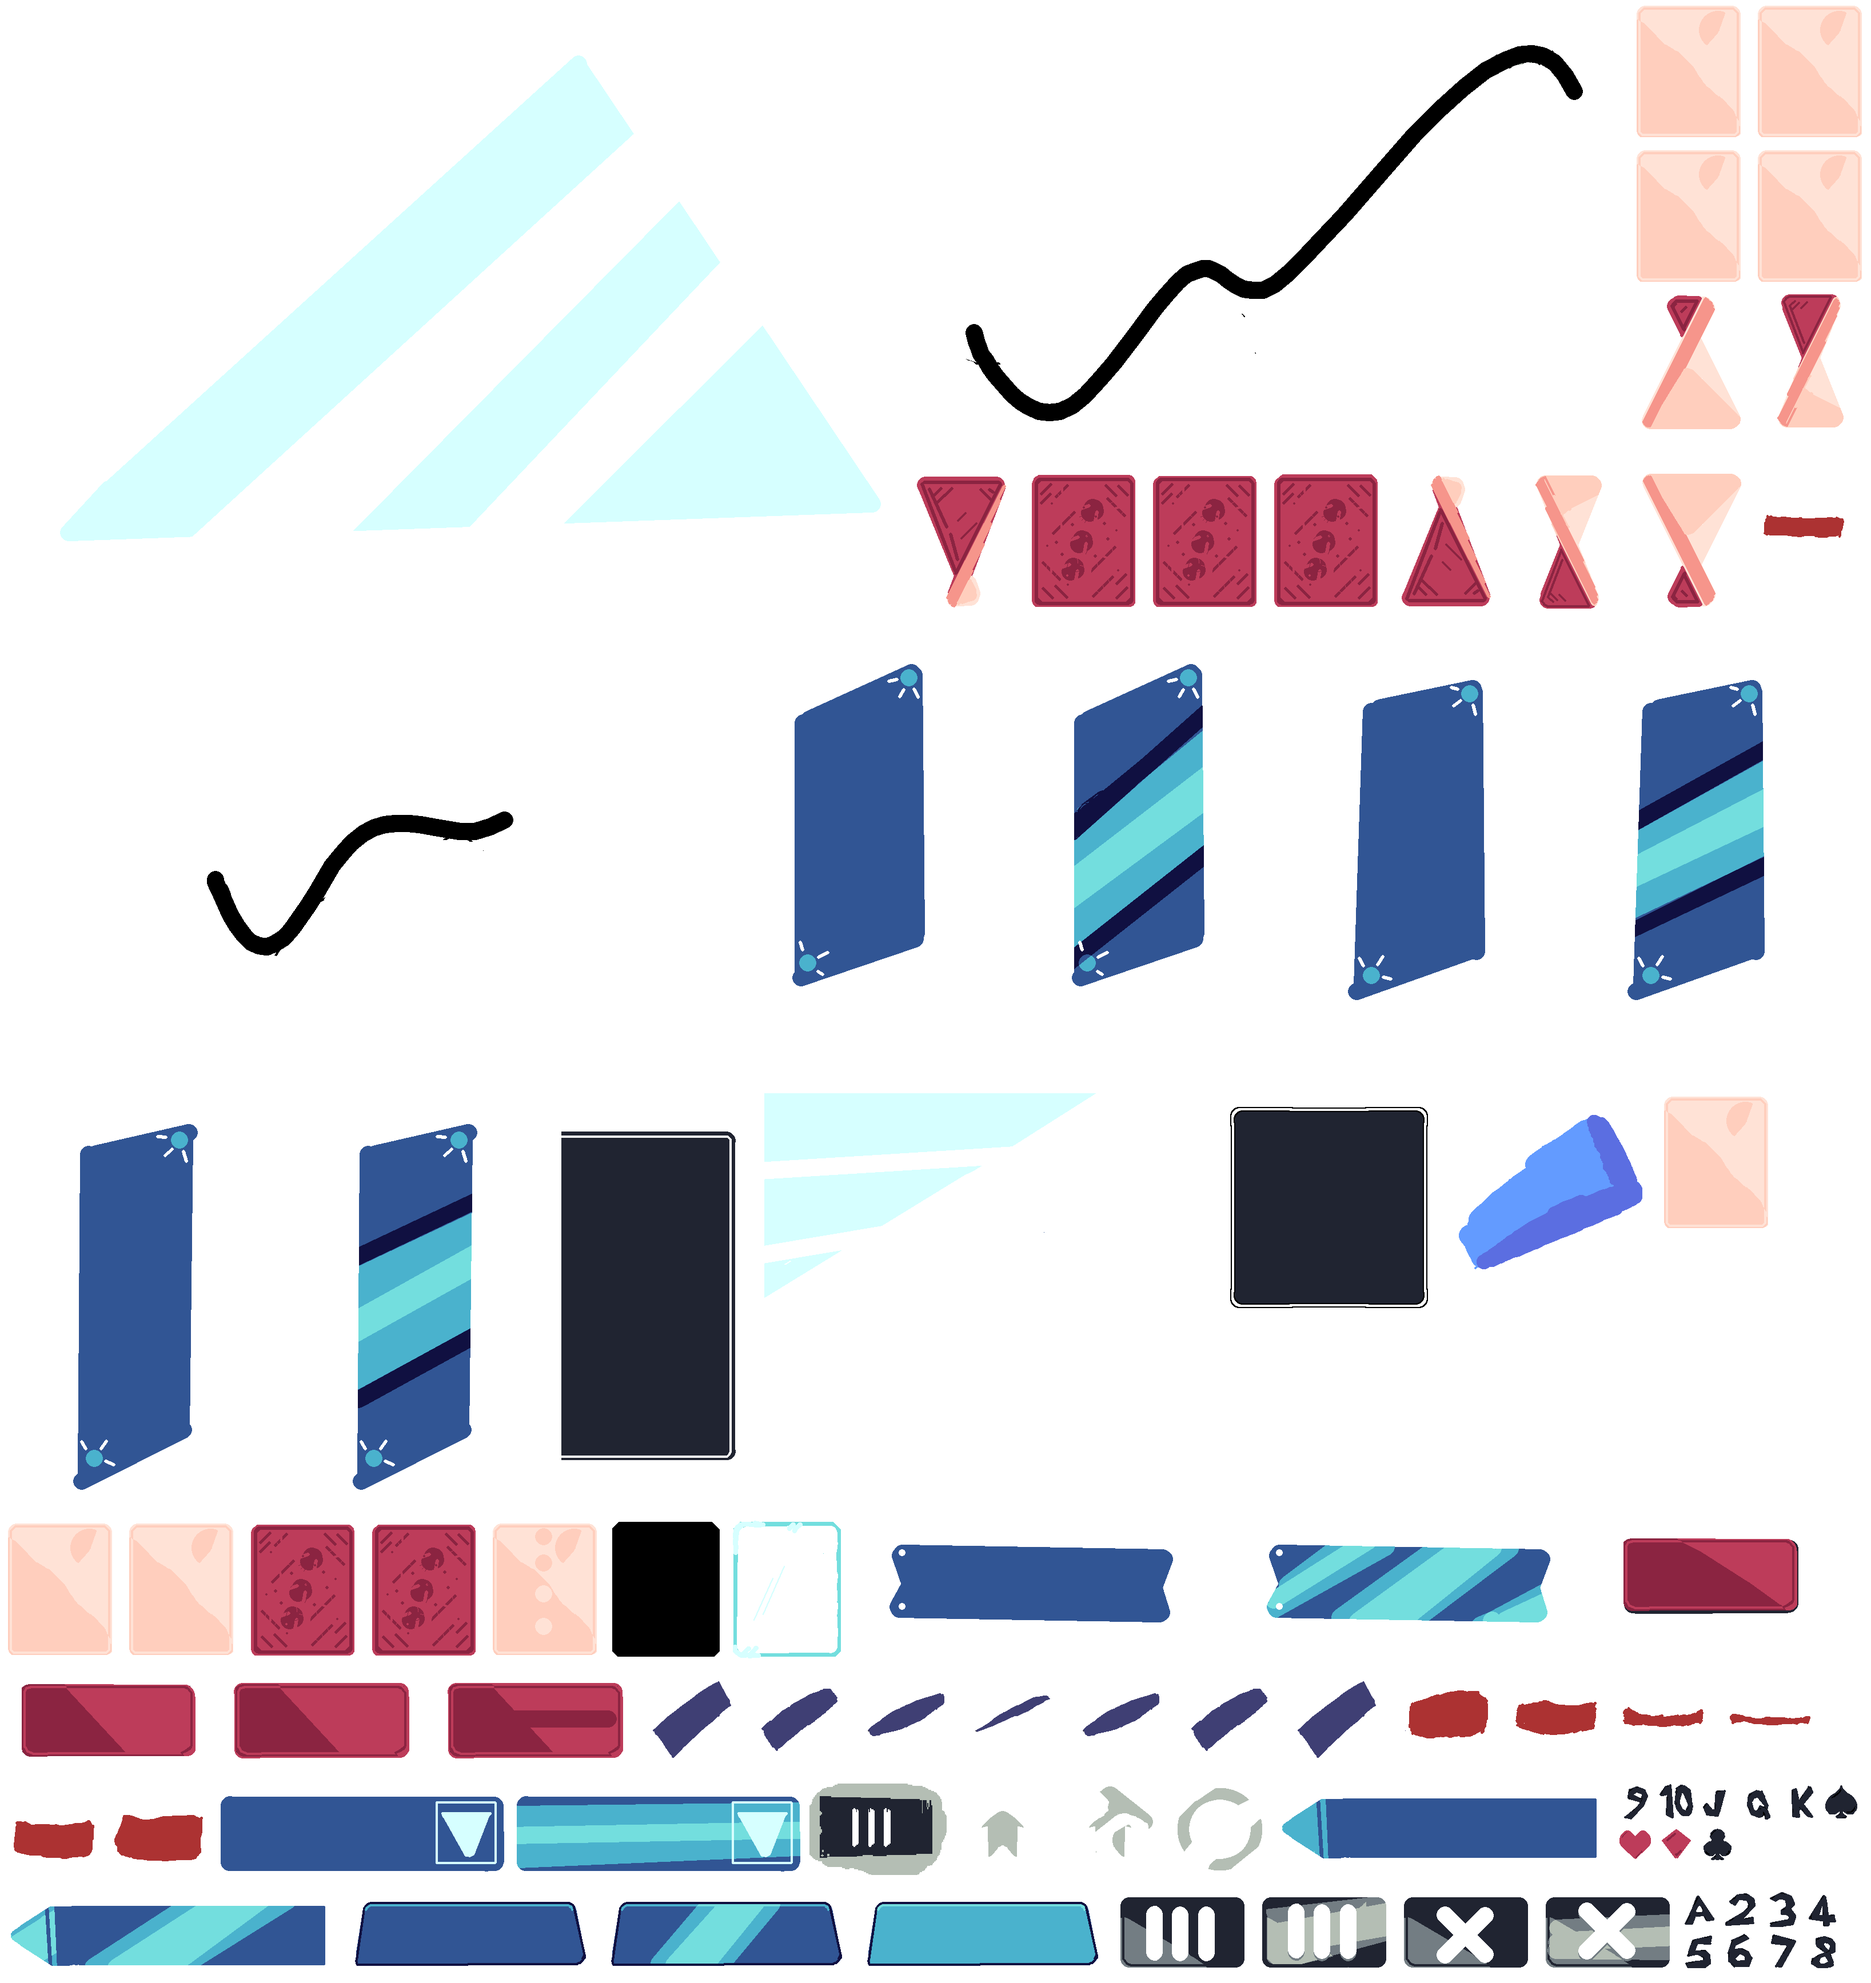
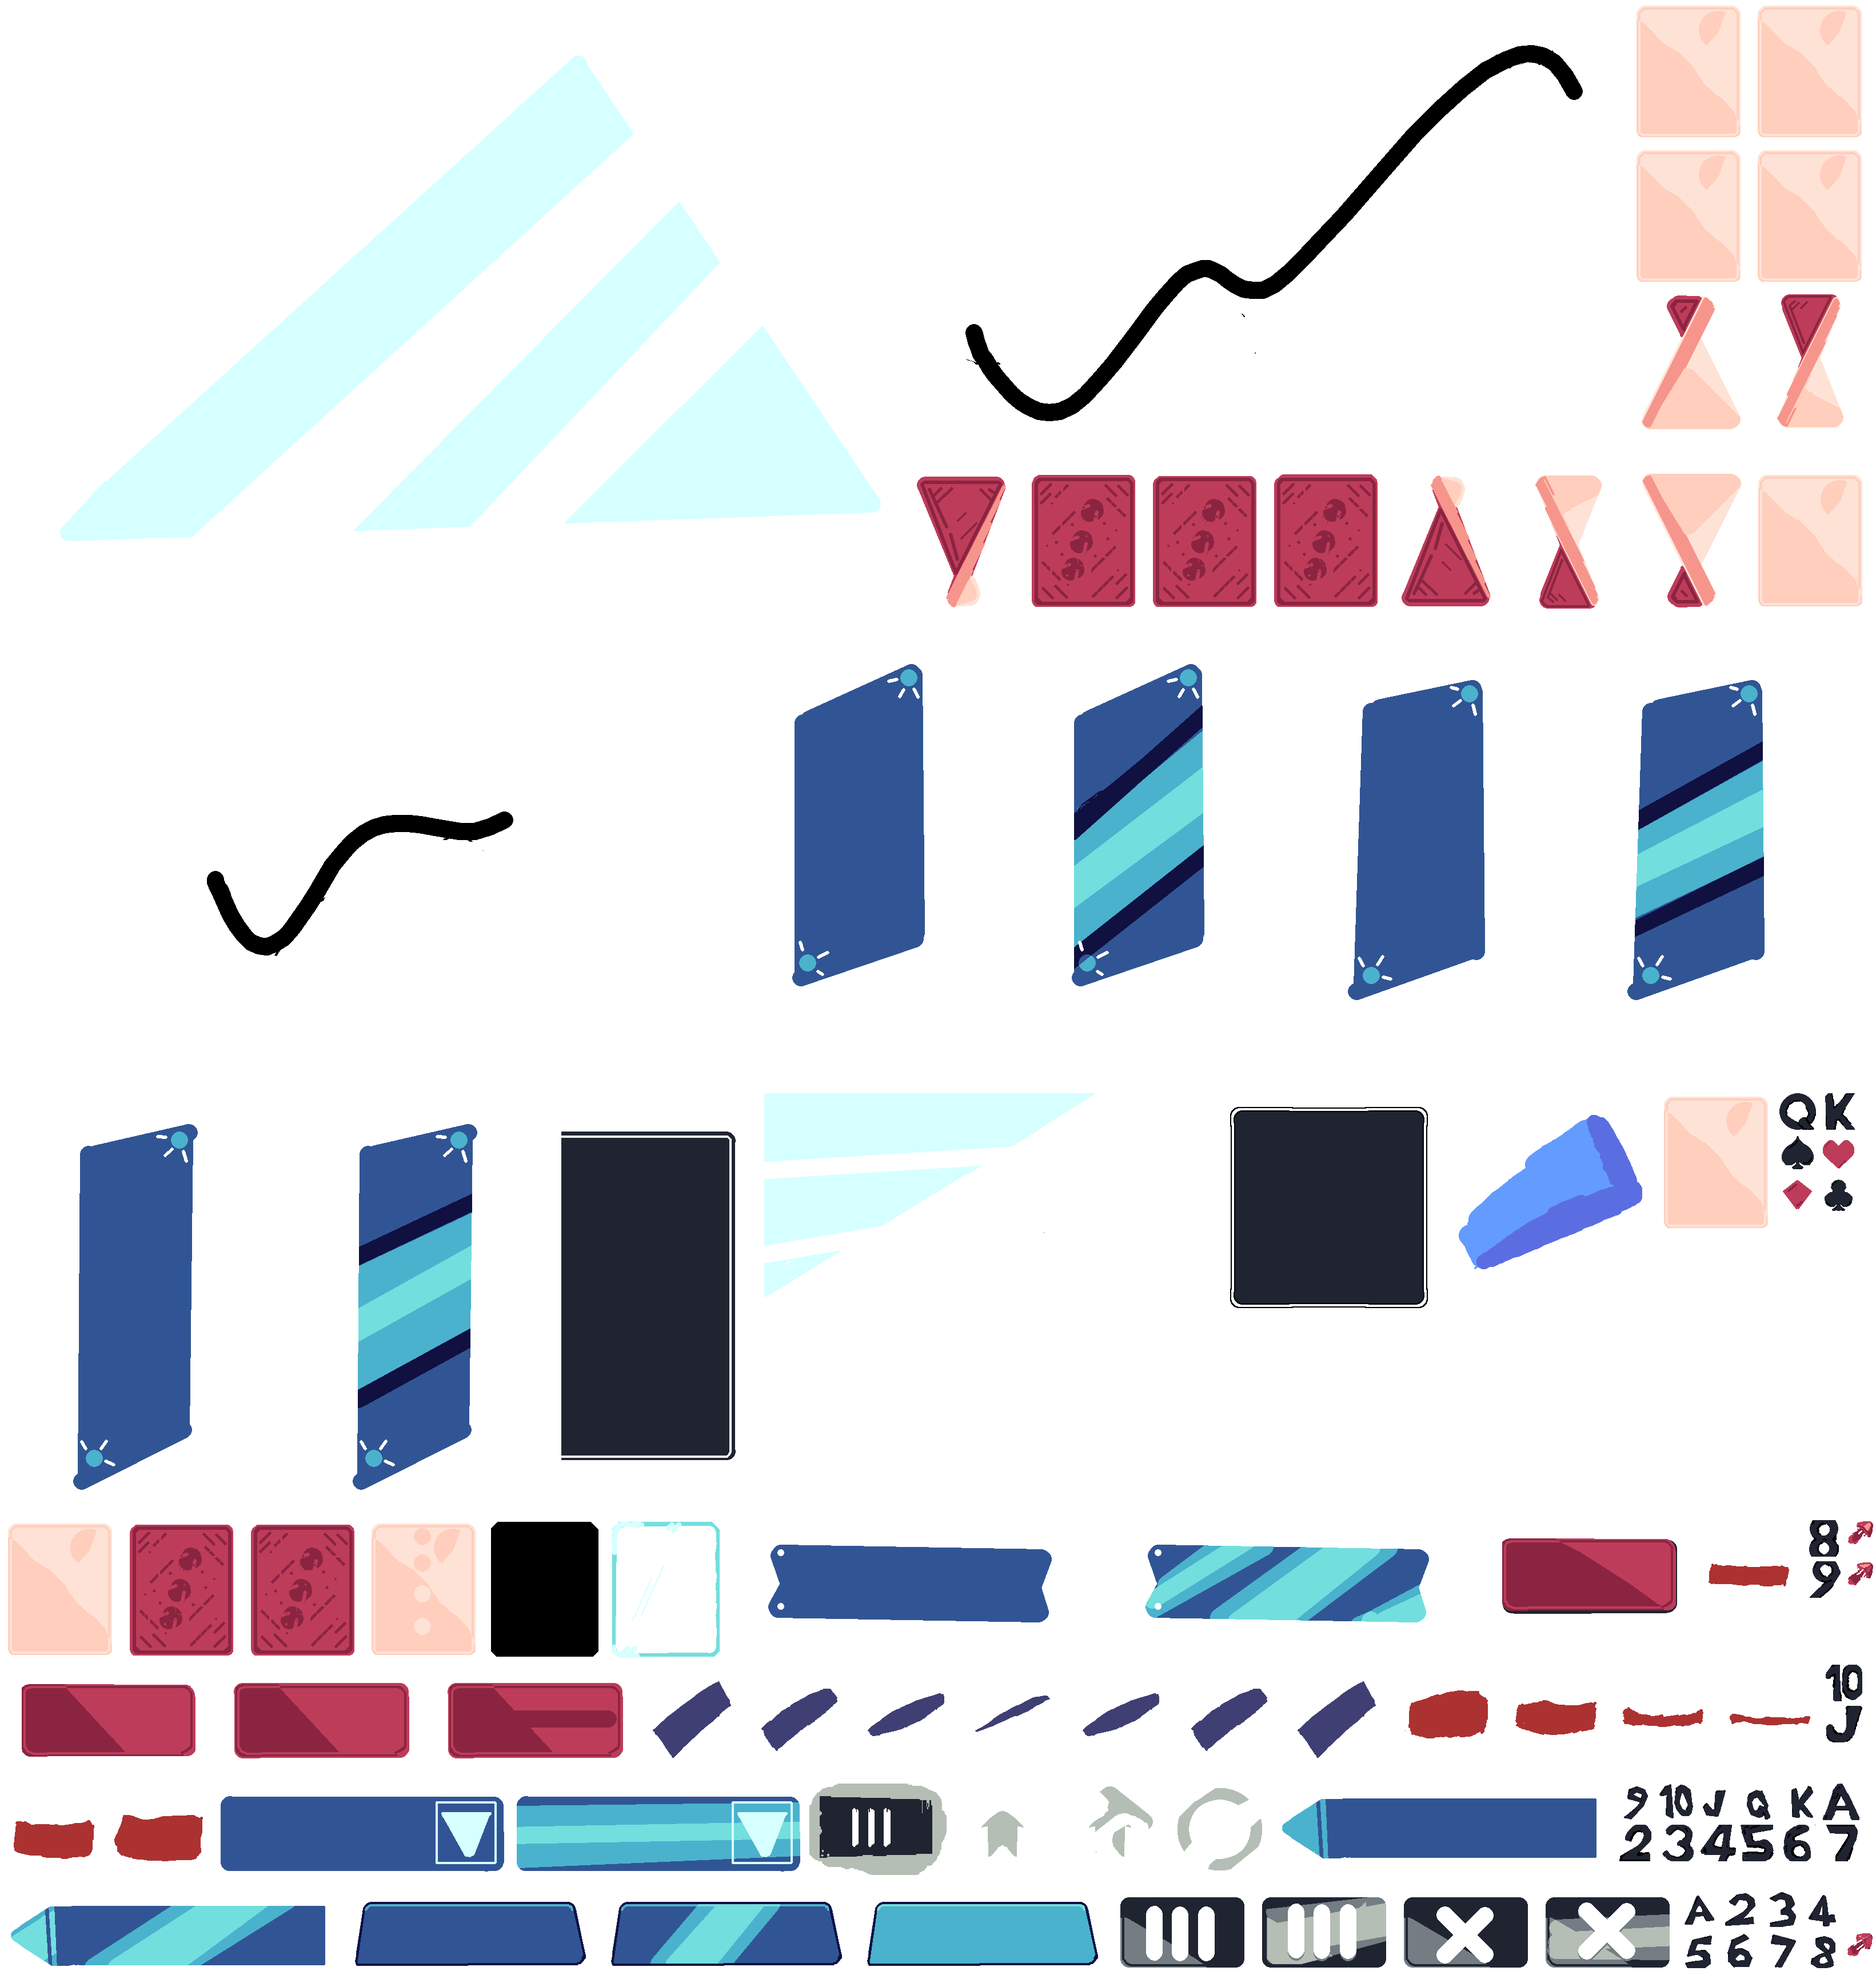
ranks

diff --git a/src/game.ts b/src/game.ts
@@ -64,6 +64,30 @@ export class RectView extends Play {
   }
 }
 
+
+class ArrowUpFire extends Play {
+
+  v!: number
+
+
+  _init() {
+  
+    let _ = this.make(Anim, Vec2.make(0, 0), {
+      name: 'arrow_up_fire'
+    })
+    _.play_o('idle', { loop: true })
+
+    this.v = 200 + Math.random() * 100
+
+  }
+
+
+  _update() {
+    this.position.x += this.v * 0.8 * Time.delta
+    this.position.y -= this.v * Time.delta
+  }
+}
+
 export class Background extends Play {
   _init() {
 
@@ -72,6 +96,19 @@ export class Background extends Play {
       h: Game.height,
       color: Color.hex(0x222222)
     })
+
+
+
+  }
+
+  _update() {
+
+    if (Time.on_interval(ticks.seconds * 3)) {
+      for (let i = 0; i < Math.random() * 5; i++) {
+        let x = 400 + Math.random() * 1000
+        //this.make(ArrowUpFire, Vec2.make(-x, x * 3), {})
+      }
+    }
   }
 }
 

diff --git a/src/showcase.ts b/src/showcase.ts
@@ -75,8 +75,8 @@ export class SuitRankDecoration extends Play {
     .map(() =>
          (v_next = v_next
           .sub(v_random()
-               .mul(Vec2.make(24, 30))
-               .add(Vec2.make(0, 40)))))
+               .mul(Vec2.make(24, 20))
+               .add(Vec2.make(0, 30)))))
     .map(v => {
       v.x += 120
       let _ = this.make(Anim, v, { name: 'suit'})
@@ -88,7 +88,7 @@ export class SuitRankDecoration extends Play {
     })
     this.decsuit.push(...more_suits)
 
-    this.rank = this.make(Anim, Vec2.make(140, 32), { name: 'rank' })
+    this.rank = this.make(Anim, Vec2.make(140, 32), { name: 'rank_2' })
     this.rank.origin = Vec2.make(32, 32)
     this.rank.play_now('a')
     this.rank.scale = Vec2.make(0.6, 0.6)
